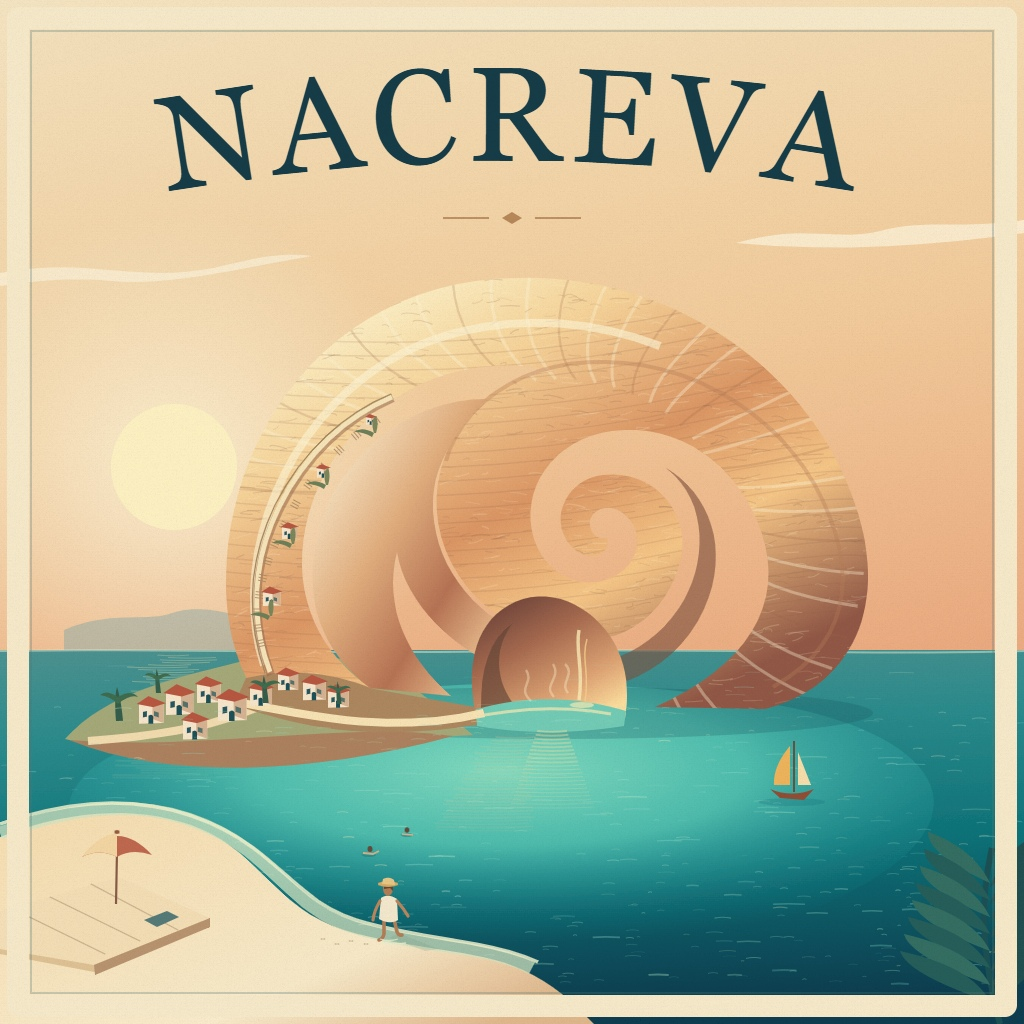
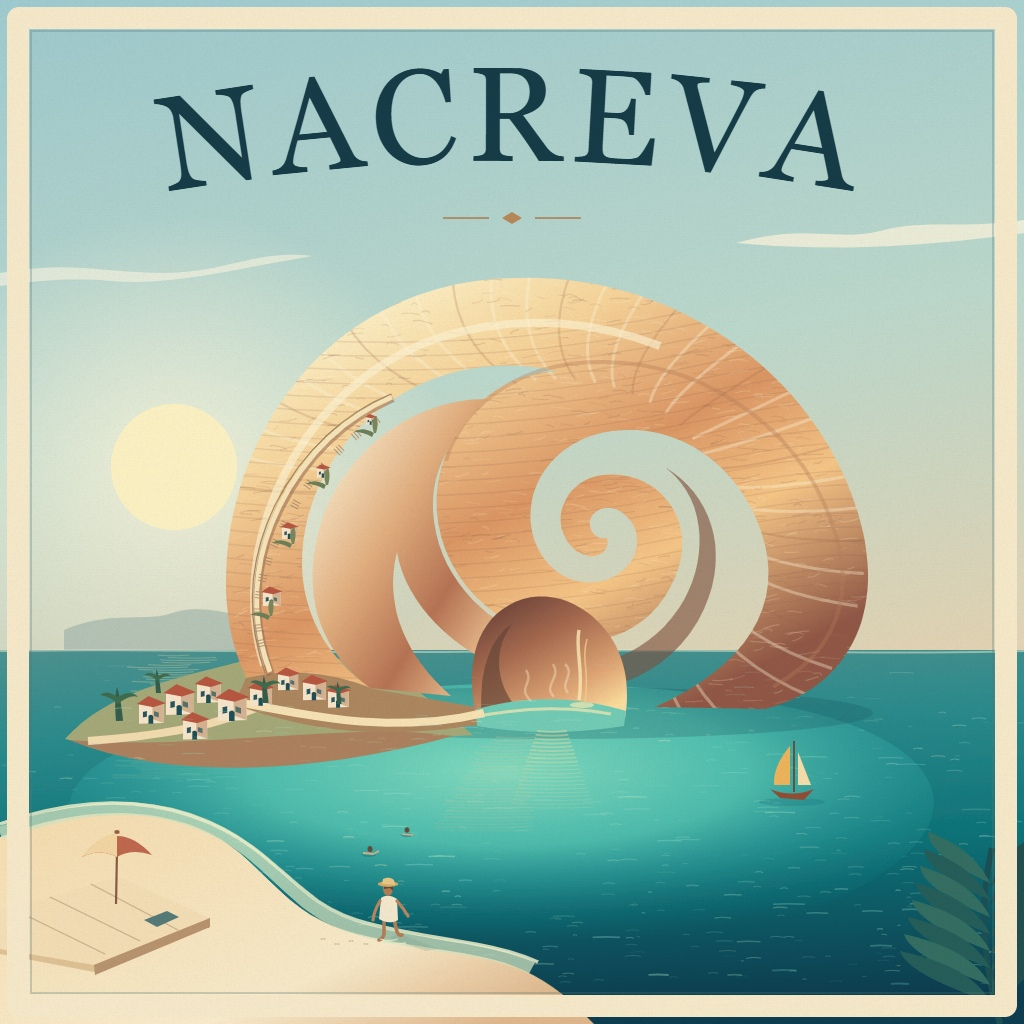
Test-clear-sky-and-warm-stone-colour-contrast

diff --git a/PROMPT.md b/PROMPT.md
@@ -20,3 +20,5 @@ Style: richly crafted contemporary gouache and lithographic illustration, elegan
 Text (verbatim): "NACREVA". Spell N A C R E V A exactly. Set this single word large, beautifully spaced, with bespoke elegant high-contrast serif lettering in deep teal across the pale sky, shaped and positioned as an intentional part of the composition. It must be cleanly legible at thumbnail size. The typography and illustration should feel conceived together. No other words, captions, slogans, quotations, ratings, logos, watermarks, map labels or small print.
 
 Constraints: original invented destination and original composition; do not reproduce any existing poster or real landmark. One finished flat image, no photographed paper, mockup, frame, collage, panel layout or decorative border. No extra text. The place's name and the inviting landmark are the two clear focal points.
+
+The fifth study tests clear blue weather above the same original daylight composition, for a stronger warm-stone/cool-sky contrast.
